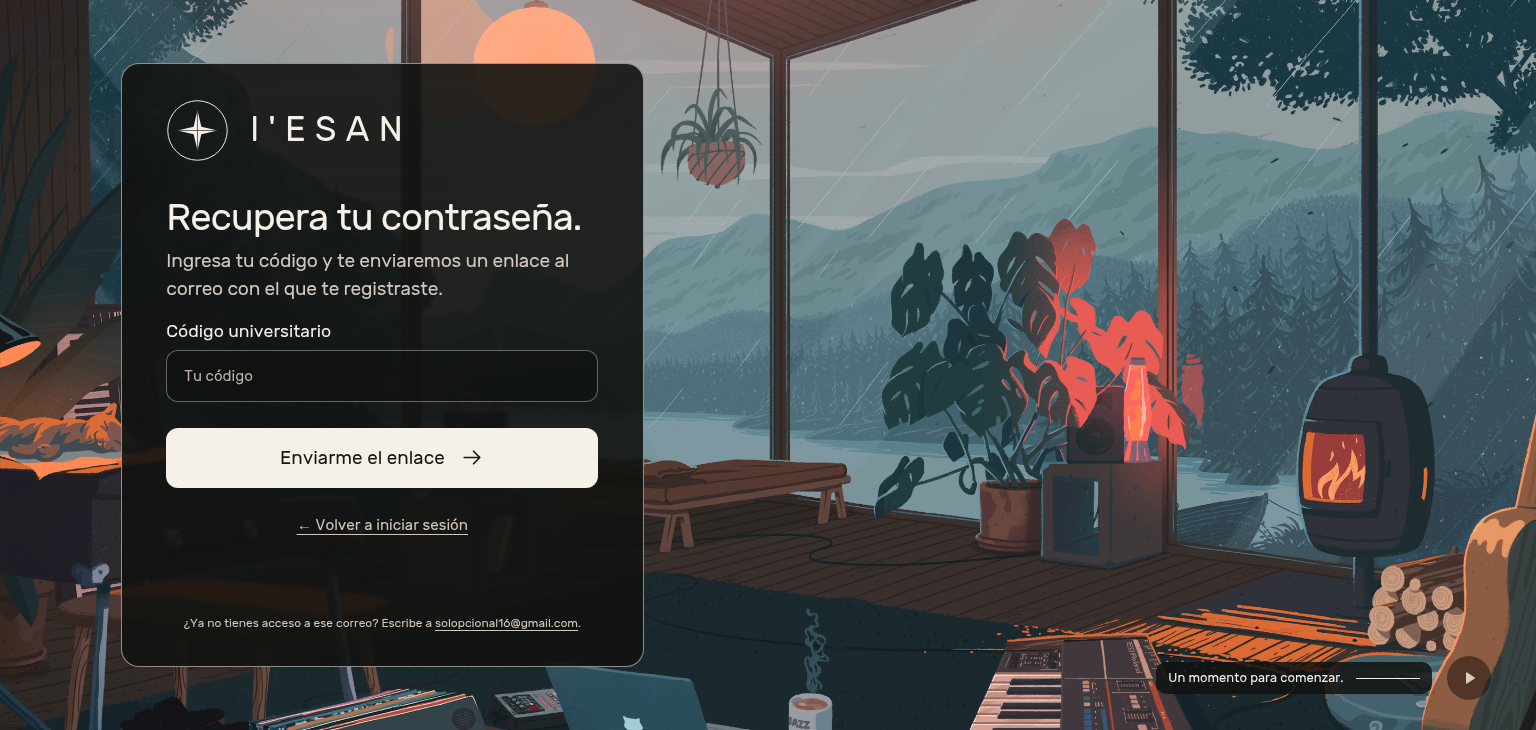
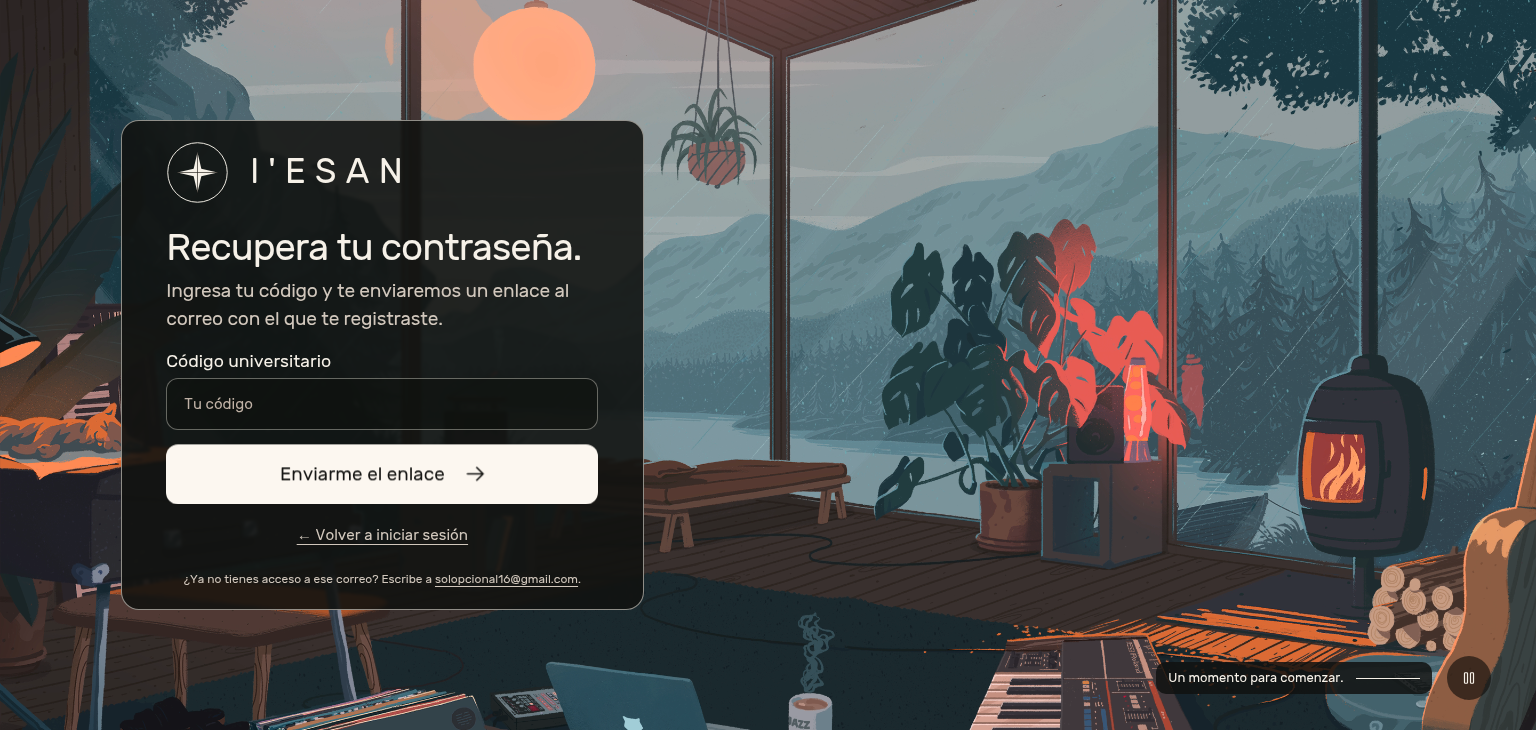
fix: acercar ayudas al formulario de acceso

diff --git a/src/styles/accessViewport.css b/src/styles/accessViewport.css
@@ -11,12 +11,14 @@ html, body {
 body {
   position: fixed;
   inset: 0;
-  --frame-gap: clamp(16px, calc(var(--access-unit) * 8.608), 82px);
-  --panel-top: clamp(28px, calc(var(--access-unit) * 4.75), 45px);
-  --panel-bottom: clamp(24px, calc(var(--access-unit) * 4.6), 44px);
+  --frame-gap: 16px;
+  --panel-top: 24px;
+  --panel-bottom: 20px;
   --panel-side: 2.87vw;
+  --brand-gap: 24px;
+  --foot-gap: 14px;
 }
-body[data-state="registerScreen"] { --frame-gap: 30px; --panel-top: 30px; --panel-bottom: 30px; }
+body[data-state="registerScreen"] { --frame-gap: 16px; --panel-top: 24px; --panel-bottom: 20px; }
 body[data-state] .entry {
   position: fixed;
   inset: 0;
@@ -32,7 +34,7 @@ body[data-state] .entry {
 }
 body[data-state] .panel {
   min-height: 0;
-  height: var(--panel-height, min(900px, calc(var(--access-height) * .82678)));
+  height: auto;
   max-height: calc(var(--access-height) - 2 * var(--frame-gap));
   padding: var(--panel-top) var(--panel-side) var(--panel-bottom);
   overflow: hidden;
@@ -44,7 +46,7 @@ body[data-state="registerScreen"] .panel { height: auto; }
 body[data-state] .brand {
   height: var(--logo-height, clamp(52px, 4.1vw, 68px));
   min-height: 0;
-  margin-bottom: var(--brand-gap, calc(var(--access-unit) * 8.3));
+  margin-bottom: var(--brand-gap, 24px);
 }
 body[data-state="registerScreen"] .brand { margin-bottom: var(--brand-gap, 26px); }
 body:is([data-state="forgotScreen"], [data-state="mailScreen"], [data-state="resetScreen"]) .brand { margin-bottom: var(--brand-gap, 32px); }
@@ -104,15 +106,15 @@ body[data-state] .scene-caption { position: fixed; z-index: 0; }
 }
 
 /* Ordered by content fit, never selected simply because the window is short. */
-body[data-fit="expanded"] { --frame-gap: 16px; --panel-height: calc(var(--access-height) - 32px); }
+body[data-fit="expanded"] { --frame-gap: 16px; }
 body[data-fit="spacing"] {
-  --frame-gap: 16px; --panel-height: calc(var(--access-height) - 32px);
+  --frame-gap: 16px;
   --panel-top: 20px; --panel-bottom: 20px;
   --brand-gap: 20px; --form-gap: 16px; --field-gap: 10px; --label-gap: 5px;
   --button-gap: 16px; --back-gap: 8px; --foot-gap: 12px;
 }
 body[data-fit="cozy"] {
-  --frame-gap: 16px; --panel-height: calc(var(--access-height) - 32px);
+  --frame-gap: 16px;
   --panel-top: 16px; --panel-bottom: 14px;
   --logo-height: 48px; --logo-size: 48px; --brand-size: 31px; --brand-gap: 12px;
   --heading-size: 34px; --subtitle-size: 18px;
@@ -122,7 +124,7 @@ body[data-fit="cozy"] {
   --button-gap: 10px; --back-gap: 4px; --foot-gap: 8px; --foot-line: 1.4;
 }
 body[data-fit="compact"] {
-  --frame-gap: 16px; --panel-height: calc(var(--access-height) - 32px);
+  --frame-gap: 16px;
   --panel-top: 10px; --panel-bottom: 10px;
   --logo-height: 40px; --logo-size: 40px; --brand-size: 29px; --brand-gap: 6px;
   --heading-size: 32px; --subtitle-size: 18px; --subtitle-line: 1.3; --subtitle-gap: 4px;
@@ -133,7 +135,7 @@ body[data-fit="compact"] {
   --error-pad: 6px; --error-gap: 6px;
 }
 body[data-fit="tight"] {
-  --frame-gap: 16px; --panel-height: calc(var(--access-height) - 32px);
+  --frame-gap: 16px;
   --panel-top: 8px; --panel-bottom: 8px;
   --logo-height: 32px; --logo-size: 32px; --brand-size: 28px; --brand-gap: 4px;
   --heading-size: 28px; --subtitle-size: 16px; --subtitle-line: 1.3; --subtitle-gap: 3px;
@@ -144,7 +146,7 @@ body[data-fit="tight"] {
   --error-pad: 4px; --error-gap: 4px; --error-line: 1.3; --preparation-gap: 20px;
 }
 body[data-fit="minimal"] {
-  --frame-gap: 8px; --panel-height: calc(var(--access-height) - 16px);
+  --frame-gap: 8px;
   --panel-top: 6px; --panel-bottom: 6px;
   --logo-height: 24px; --logo-size: 24px; --brand-size: 26px; --brand-gap: 2px;
   --heading-size: 26px; --subtitle-size: 15px; --subtitle-line: 1.2; --subtitle-gap: 2px;

diff --git a/src/lib/accessController.js b/src/lib/accessController.js
@@ -23,6 +23,7 @@ try {
 
 let fitFrame = 0
 function scheduleFit() {
+  if (document.querySelector('.stage .entrance')) return
   if (!fitFrame) fitFrame = requestAnimationFrame(() => { fitFrame = 0; fitViewport() })
 }
 function fitViewport() {
@@ -32,11 +33,16 @@ function fitViewport() {
   document.documentElement.style.setProperty('--access-top', `${viewport?.offsetTop || 0}px`)
   const extreme = height < 520 || height < window.innerHeight - 100
   document.body.dataset.extreme = String(extreme)
-  const levels = extreme ? ['minimal'] : ['0', 'expanded', 'spacing', 'cozy', 'compact', 'tight', 'minimal']
+  // Start with the original control sizes and the tighter panel rhythm. The
+  // older full-height stage made the fitter collapse even short views merely
+  // to occupy empty panel space.
+  const levels = extreme ? ['minimal'] : ['spacing', 'cozy', 'compact', 'tight', 'minimal']
   const stage = document.querySelector('.stage')
   for (const level of levels) {
     document.body.dataset.fit = String(level)
-    if (stage.scrollHeight <= stage.clientHeight || level === 'minimal') break
+    // Ignore subpixel/line-box rounding; it should not collapse a full-size
+    // form to the tightest density when the panel already fits the viewport.
+    if (stage.scrollHeight <= stage.clientHeight + 2 || level === 'minimal') break
   }
   if (!extreme) stage.scrollTop = 0
 }
@@ -48,7 +54,7 @@ new ResizeObserver(scheduleFit).observe(panel)
 fitViewport()
 
 function state() { return document.body.dataset.state }
-function feedback(text, kind = 'info') {
+function feedback(text, kind = 'info', shouldFit = true) {
   const screen = $(state())
   const container = screen.querySelector('form') || screen
   const el = $('formMessage')
@@ -57,7 +63,7 @@ function feedback(text, kind = 'info') {
   el.setAttribute('role', kind === 'error' ? 'alert' : 'status')
   el.setAttribute('aria-live', kind === 'error' ? 'assertive' : 'polite')
   panel.classList.toggle('has-message', !!text)
-  scheduleFit()
+  if (shouldFit) scheduleFit()
 }
 function foot() {
   const help = `<a href="mailto:${support}">${support}</a>`
@@ -75,11 +81,19 @@ async function show(id, animate = true) {
   transitioning = true
   if (old && animate && !reduce.matches) { old.classList.add('screen-exit'); await delay(320) }
   screens.forEach(el => { el.hidden = el !== next; el.classList.remove('entrance', 'screen-exit') })
-  if (animate && !reduce.matches) next.classList.add('entrance')
+  const shouldAnimate = animate && !reduce.matches
+  if (shouldAnimate) {
+    next.classList.add('entrance')
+    next.addEventListener('animationend', event => {
+      if (event.target !== next) return
+      next.classList.remove('entrance')
+      scheduleFit()
+    }, { once: true })
+  }
   document.body.dataset.state = id; foot(); panel.classList.remove('has-message')
   transitioning = false
-  feedback('')
-  fitViewport()
+  feedback('', 'info', false)
+  if (!shouldAnimate) fitViewport()
   next.querySelector('h1, h2')?.focus({ preventScroll: true })
 }
 function updateResend() {

diff --git a/docs/access-layout/verification.md b/docs/access-layout/verification.md
@@ -2,7 +2,7 @@
 
 Se comparó el acceso actual con el PDF «I'ESAN · Sistema de acceso» y las capturas compartidas. El ajuste anterior imponía densidades pequeñas a todas las vistas por altura: a 1536×730, Recuperación quedaba con un título de 28 px y un panel de 348 px pese a disponer de espacio. A 1366×657, el título se reducía a 24 px. Eso comprimía innecesariamente el diseño.
 
-`src/styles/accessViewport.css` conserva la fuente, superficie, colores, textos, fondo de video y animaciones. `html`/`body` siguen limitados al viewport, `.entry` permanece fija y `.panel` tiene altura máxima. Las vistas breves recuperan la altura del panel y la marca original. `fitViewport()` ahora prueba primero la composición original, después amplía la altura disponible y reduce espacios, y solo finalmente ajusta tamaños si el contenido activo todavía desborda. No fuerza una densidad según la altura de la ventana ni utiliza escala o zoom. Un error visible se vuelve a medir; el formulario recupera su distribución amplia al desaparecer el mensaje. Solo `.stage` permite desplazarse por debajo de 520 px o con el teclado virtual. En escritorio bajo se conserva un ancho mínimo de 420 px para evitar líneas adicionales en errores y la nota del pie.
+`src/styles/accessViewport.css` conserva la fuente, superficie, colores, textos, fondo de video y animaciones. `html`/`body` siguen limitados al viewport, `.entry` permanece fija y `.panel` ahora toma la altura del contenido activo dentro del máximo disponible. El pie fluye después del formulario y sus enlaces, en vez de anclarse al fondo de una tarjeta alta. La medición espera a que termine la transición de entrada para que su desplazamiento no active una compactación innecesaria. `fitViewport()` conserva primero los tamaños de campos y títulos; solo reduce más cuando el contenido activo todavía desborda. No utiliza escala ni zoom. Un error visible se vuelve a medir; el formulario recupera su distribución amplia al desaparecer el mensaje. Solo `.stage` permite desplazarse por debajo de 520 px o con el teclado virtual. En escritorio bajo se conserva un ancho mínimo de 420 px para evitar líneas adicionales en errores y la nota del pie.
 
 ## Proporciones recuperadas
 
@@ -10,19 +10,20 @@ Medidas de las vistas normales, sin mensaje de error:
 
 | Vista | Viewport | Título | Logo | Alto del panel |
 | --- | --- | ---: | ---: | ---: |
-| Crear cuenta | 1920×947 | 42 px | 68 px | 863 px |
+| Inicio de sesión | 1536×730 | 38,4 px | 63 px | 654 px |
 | Crear cuenta | 1536×730 | 34 px | 48 px | 697 px |
+| Inicio de sesión | 1366×657 | 34 px | 48 px | 548 px |
 | Crear cuenta | 1366×657 | 32 px | 40 px | 622 px |
-| Recuperación | 1536×730 | 38,4 px | 63 px | 604 px |
-| Recuperación | 1366×657 | 34,15 px | 56 px | 625 px |
 
-La suite comprueba también estas proporciones para impedir que un resultado sin scroll vuelva a aprobar una interfaz innecesariamente reducida.
+Estas medidas registran las proporciones visibles en las capturas actualizadas; los controles de los formularios conservan al menos 44 px de alto.
 
 Se eliminaron el HTML, los estilos y las referencias exclusivas de `#complete`. Login, registro con sesión y nueva contraseña navegan directamente a `pagina.html`; el botón permanece deshabilitado durante la solicitud. `#accessStatus` anuncia el éxito sin contenido visual. Los errores conservan el formulario y usan `#formMessage`. Un registro sin sesión sigue solicitando la confirmación real de correo.
 
 `#replay` sigue reiniciando la carga previa. No hay `#previewHint` ni un modo de acceso simulado en esta versión. El antiguo botón «Abrir Inicio» ejecutaba `location.replace(destination)`, con destino `./pagina.html`; se conserva ese destino.
 
-## Matriz de Chromium / Playwright
+## Matriz de Chromium / Playwright (revisión previa)
+
+La matriz siguiente corresponde a la revisión completa anterior a este ajuste del flujo vertical. En este cambio se hizo una inspección visual de inicio de sesión y registro en 1536×730, 1366×657 y 390×844; no se volvió a ejecutar toda la matriz.
 
 Cada casilla incluye la vista normal y un mensaje de error visible: 10 estados por tamaño, 80 combinaciones. Todos los requests de autenticación se interceptan; no se crean cuentas reales.
 
@@ -45,6 +46,8 @@ También pasaron navegación directa de login/registro con sesión/reset sin nin
 
 - [1536×730](crear-cuenta-1536x730.png)
 - [1366×657](crear-cuenta-1366x657.png)
+
+Inicio de sesión: [1536×730](inicio-sesion-1536x730.png).
 
 Las capturas actuales muestran los cinco campos, botón, enlace y nota completos con el tamaño recuperado.
 
